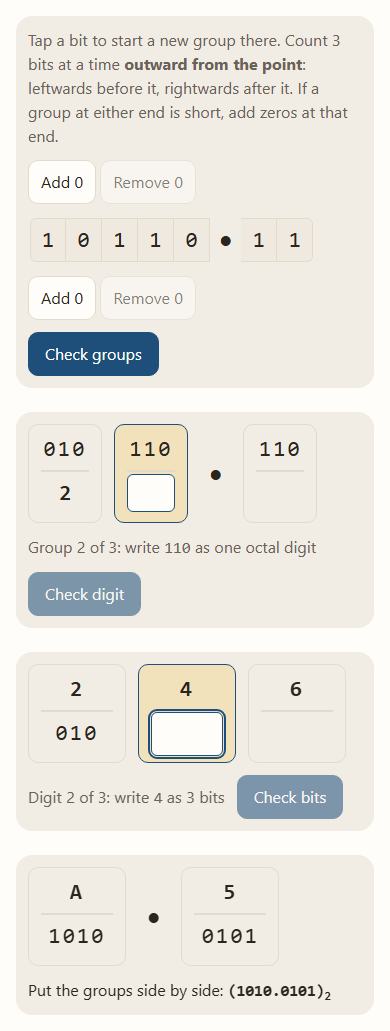
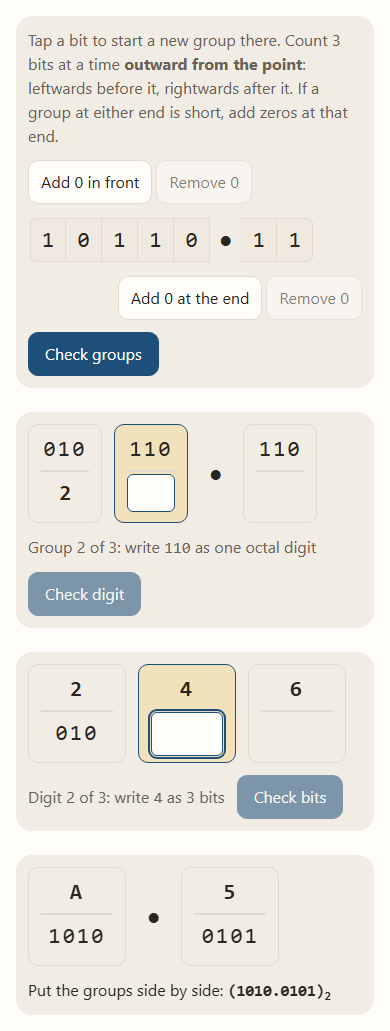
fix(kinds): name the two zero-button pairs by end and align them with the row's ends (#391 UX)

diff --git a/src/interactions/BitGrouping/BitGrouping.tsx b/src/interactions/BitGrouping/BitGrouping.tsx
@@ -184,10 +184,10 @@ function MarkGroups({ bits, groupSize, onGroups, wrong }: { bits: string; groupS
       )}
       <div className={styles.row} {...focusTarget("bits")}>
         <div className={styles.padButtons}>
-          <button type="button" className={`btn ${styles.pad}`} disabled={!interactive || pad >= groupSize} onClick={() => setPad((p) => p + 1)} aria-label="Add a leading zero" {...focusTarget("pad-zero")}>
+          <button type="button" className={`btn ${styles.pad}`} disabled={!interactive || pad >= groupSize} onClick={() => setPad((p) => p + 1)} aria-label={hasPoint ? undefined : "Add a leading zero"} {...focusTarget("pad-zero")}>
             {hasPoint ? "Add 0 in front" : "Add 0"}
           </button>
-          <button type="button" className={`btn ${styles.pad}`} disabled={!interactive || pad === 0} onClick={() => setPad((p) => p - 1)} aria-label="Remove a leading zero">
+          <button type="button" className={`btn ${styles.pad}`} disabled={!interactive || pad === 0} onClick={() => setPad((p) => p - 1)} aria-label={hasPoint ? "Remove 0 in front" : "Remove a leading zero"}>
             Remove 0
           </button>
         </div>
@@ -197,11 +197,11 @@ function MarkGroups({ bits, groupSize, onGroups, wrong }: { bits: string; groupS
           {[...right].map((bit, j) => cell(bit, left.length + j, `f${j}`, j === 0, j >= frac.length))}
         </div>
         {hasPoint && (
-          <div className={styles.padButtons}>
-            <button type="button" className={`btn ${styles.pad}`} disabled={!interactive || padEnd >= groupSize} onClick={() => setPadEnd((p) => p + 1)} aria-label="Add a trailing zero" {...focusTarget("pad-zero-end")}>
+          <div className={`${styles.padButtons} ${styles.padEnd}`}>
+            <button type="button" className={`btn ${styles.pad}`} disabled={!interactive || padEnd >= groupSize} onClick={() => setPadEnd((p) => p + 1)} {...focusTarget("pad-zero-end")}>
               Add 0 at the end
             </button>
-            <button type="button" className={`btn ${styles.pad}`} disabled={!interactive || padEnd === 0} onClick={() => setPadEnd((p) => p - 1)} aria-label="Remove a trailing zero">
+            <button type="button" className={`btn ${styles.pad}`} disabled={!interactive || padEnd === 0} onClick={() => setPadEnd((p) => p - 1)} aria-label="Remove 0 at the end">
               Remove 0
             </button>
           </div>

diff --git a/src/kinds/bit-grouping/ui.test.tsx b/src/kinds/bit-grouping/ui.test.tsx
@@ -45,8 +45,8 @@ describe("bit-grouping view: binary point (#211)", () => {
     expect(screen.getByText(/outward from the point/)).toBeInTheDocument();
 
     // fraction padded on the wrong side is not possible here: zeros go on at the far ends only
-    await user.click(screen.getByRole("button", { name: "Add a leading zero" }));
-    await user.click(screen.getByRole("button", { name: "Add a trailing zero" }));
+    await user.click(screen.getByRole("button", { name: "Add 0 in front" }));
+    await user.click(screen.getByRole("button", { name: "Add 0 at the end" }));
     // 010 | 110 . 110 : one cut in the whole part, before its 4th bit
     await user.click(screen.getByRole("button", { name: /Bit 4 of 9: 1\. Start a new group here/ }));
     await user.click(screen.getByRole("button", { name: "Check groups" }));

diff --git a/src/interactions/BitGrouping/BitGrouping.module.css b/src/interactions/BitGrouping/BitGrouping.module.css
@@ -34,6 +34,11 @@
   gap: var(--space-1);
 }
 
+/* the pair that pads the end of the fraction sits at the right end of the row */
+.padEnd {
+  margin-inline-start: auto;
+}
+
 .pad {
   min-height: var(--touch-min);
   padding: 0 var(--space-3);
